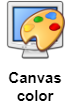
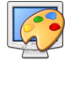
fin primera parte

Changed region(s): [[0.1143, 0.6923, 0.8857, 0.8077], [0.2286, 0.8654, 0.7714, 0.9808]]

diff --git a/public/nodos.html b/public/nodos.html
@@ -11,10 +11,10 @@
         <div class="logo">
             <a href="index.html" style="margin-right: 20px; color: white; margin-top: 35px;"><b>Back</b></a>
             <div id="colorPicker">  
-                <button id="openColorPickerButton" onclick="openColorPicker()">
+                
                     <img src="assets/canvasColor.png" alt="Canvas Color" width="55px" height="70px">
-                </button>
-                <input type="color" id="colorSelector" style="display: none;">
+                
+                 <input type="color" id="colorSelector" value="#ffffff" onchange="cambiarColorLienzo()">
             </div>
             <button class="boton" id="nodeButton" onclick="agregarNodoSeleccionado()" onclick= ><img src="assets/node.png" alt="Node Icon" width="55px" height="70px"></button>
             <button class="boton" id="edgeButton" onclick="agregarAristaSeleccionada()"><img src="assets/edge1.png" alt="Edge1 Icon" width="55px" height="70px"></button>

diff --git a/styles/stylesInicio.css b/styles/stylesInicio.css
@@ -116,6 +116,8 @@ h1{
 .help {
     text-align: center; 
     margin: 0 auto;
+    background-color:#61678B;
+    color: #DEDEEA;
 }
 .contenido img{
     padding: 20px;
